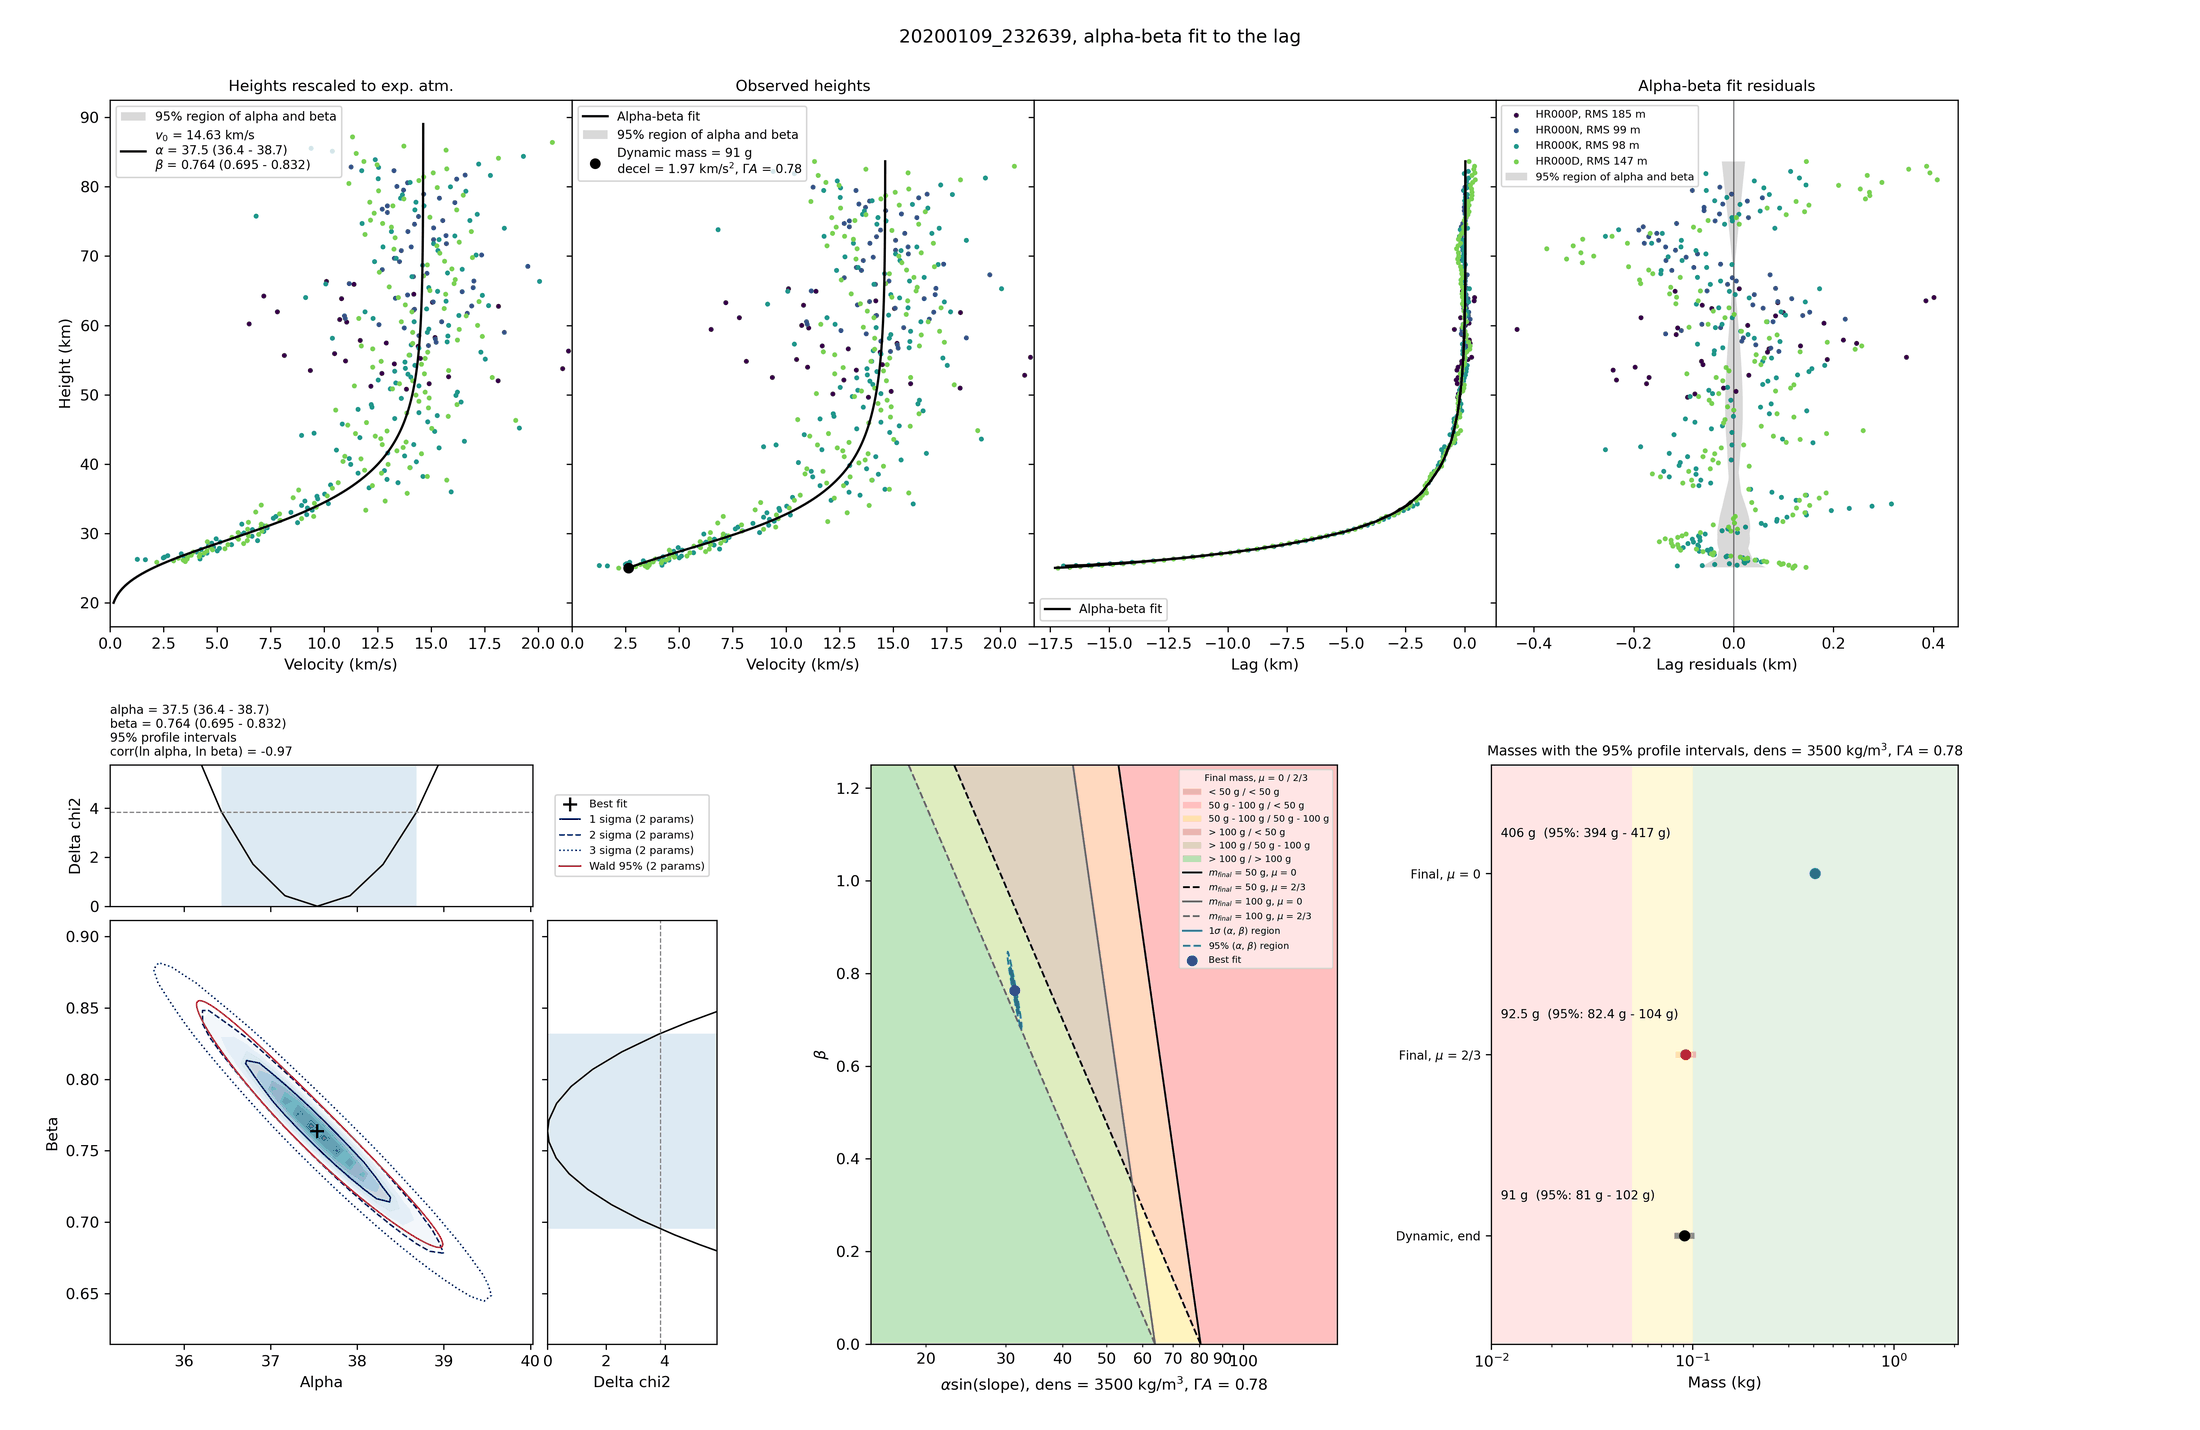
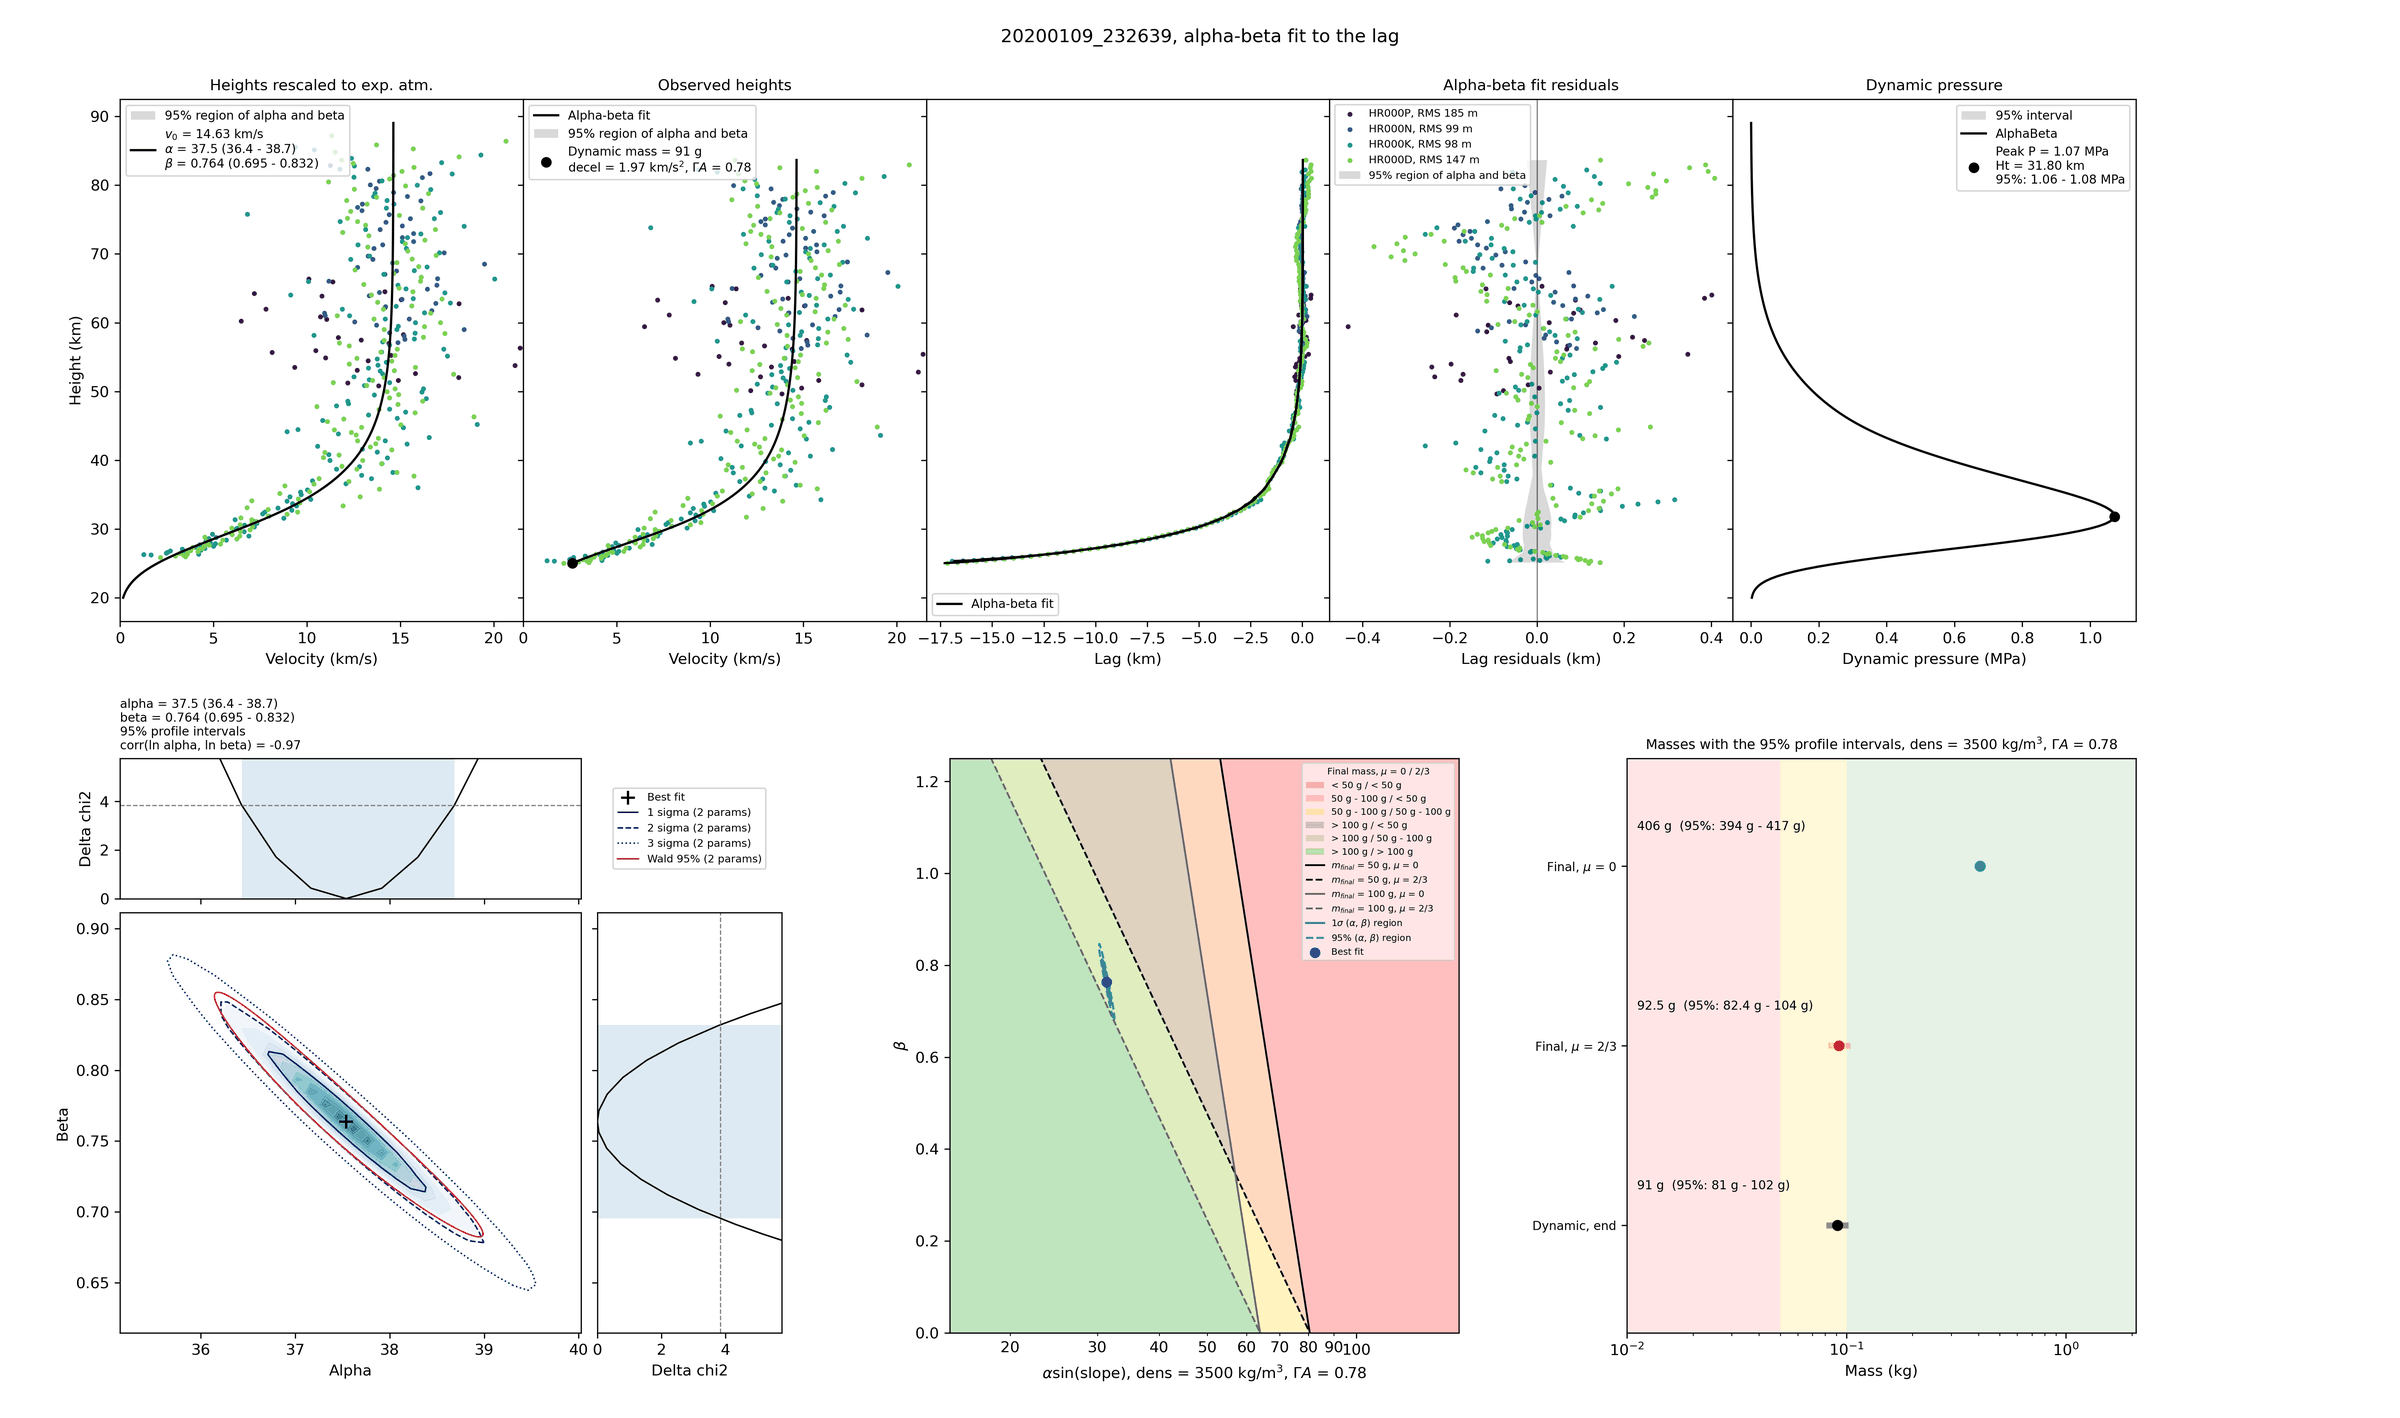
Add the dynamic pressure to the summary plot of AlphaBeta
The dynamic pressure along the path, with the band of the models within the 95% interval and the peak, is the
fifth panel of the top row of the summary plot, on the same height axis as the fit. The separate dynamic
pressure plot is still saved.

Claude-Session: https://claude.ai/code/session_017G5K4vHM8FDzUMWRbdfb43

diff --git a/wmpl/Utils/AlphaBeta.py b/wmpl/Utils/AlphaBeta.py
@@ -7488,76 +7488,6 @@ if __name__ == "__main__":
                 ncol=(1 if len(station_ids) <= 8 else 2))
 
 
-        ### Summary plot of the fit, the uncertainties, the mass diagram and the masses ###
-
-        fig_sum = plt.figure(figsize=(20, 13))
-        grid_sum = fig_sum.add_gridspec(2, 1, height_ratios=[1, 1.1], hspace=0.25, left=0.05, right=0.89, \
-            top=0.93, bottom=0.06)
-
-        # Plot the fit in the top row
-        grid_top = grid_sum[0].subgridspec(1, 4, wspace=0)
-        ax_sum_ab = fig_sum.add_subplot(grid_top[0])
-        sum_axes = [ax_sum_ab] + [fig_sum.add_subplot(grid_top[i], sharey=ax_sum_ab) for i in range(1, 4)]
-        _plotFit(*sum_axes, print_results=False)
-        for ax in sum_axes[1:]:
-            ax.tick_params(labelleft=False)
-
-        grid_bottom = grid_sum[1].subgridspec(1, 3, width_ratios=[1.3, 1, 1], wspace=0.3)
-
-        # Plot the uncertainties of alpha and beta
-        if cml_args.errors:
-            plotAlphaBetaLagProfile(lag_profile, alpha, beta, errors=fit_errors, fig=fig_sum, \
-                subplot_spec=grid_bottom[0])
-        else:
-            ax_note = fig_sum.add_subplot(grid_bottom[0])
-            ax_note.axis('off')
-            ax_note.text(0.5, 0.5, "Run with --errors for the uncertainties of alpha and beta", \
-                ha='center', va='center', transform=ax_note.transAxes)
-
-        # Plot the survival diagram in the space of the initial mass and beta
-        ax_mass_diagram = fig_sum.add_subplot(grid_bottom[1])
-        plotAlphaBetaMassDiagram(alpha, beta, slope, profile=(lag_profile if cml_args.errors else None), \
-            dens=cml_args.dens, shape_coeff=cml_args.ga, axes=ax_mass_diagram)
-        if little_deceleration:
-            ax_mass_diagram.text(0.5, 0.5, "Not constrained by the dynamics\n(velocity loss {:.1%})".format( \
-                velocity_loss), transform=ax_mass_diagram.transAxes, ha='center', va='center', fontsize=12, \
-                bbox=dict(facecolor='white', alpha=0.8, edgecolor='0.5'))
-
-        # Plot the masses with their 95% intervals
-        def _massEntry(label, mass, interval_values, color, no_upper_limit=False):
-            """ One mass of the plot of the masses, with its interval from the values of the models within
-                the 95% interval.
-            """
-
-            if not len(interval_values):
-                return (label, mass, None, None, color)
-
-            upper = np.inf if no_upper_limit else np.max(interval_values)
-
-            return (label, mass, np.min(interval_values), upper, color)
-
-        # Without a significant deceleration the final masses are ~0
-        if little_deceleration:
-            masses = [("Final, $\\mu$ = 0", 0.0, None, None, 'tab:blue'), \
-                ("Final, $\\mu$ = 2/3", 0.0, None, None, 'tab:orange'), \
-                ("Dynamic, end", 0.0, None, None, 'k')]
-            masses_note = "Velocity loss of only {:.1%} by the end:\nthe dynamics do not constrain the " \
-                "masses, and the\nfireball most likely ablated completely".format(velocity_loss)
-        else:
-            masses = [
-                _massEntry("Final, $\\mu$ = 0", m_final_mu0, interval_masses[0][:, 1], 'tab:blue'),
-                _massEntry("Final, $\\mu$ = 2/3", m_final_mu23, interval_masses[2/3][:, 1], 'tab:orange'),
-                _massEntry("Dynamic, end", dyn_mass, interval_dyn_masses, 'k', no_upper_limit=no_decel),
-                ]
-            masses_note = None
-        ax_masses = fig_sum.add_subplot(grid_bottom[2])
-        plotAlphaBetaMasses(masses, axes=ax_masses, title="Masses with the 95% profile intervals, " \
-            "dens = {:d} kg/m$^3$, $\\Gamma A$ = {:.2f}".format(int(cml_args.dens), cml_args.ga), \
-            note=masses_note)
-
-        fig_sum.suptitle("{:s}, alpha-beta fit to the lag".format(traj.file_name))
-
-        _finishPlot(fig_sum, "alpha_beta_summary")
 
 
 
@@ -7665,35 +7595,122 @@ if __name__ == "__main__":
         print("----------------------")
 
 
+        def _plotDynPressure(ax):
+            """ Plot the dynamic pressure of the alpha-beta model along the path, with the band of the models
+                within the 95% interval and the peak.
+
+            Arguments:
+                ax: [Axes] Axes to draw into.
+            """
+
+            if interval_pressures:
+                ax.fill_betweenx(ht_arr/1000, np.min(interval_pressures, axis=0)/1e6, \
+                    np.max(interval_pressures, axis=0)/1e6, color='k', alpha=0.15, lw=0, label="95% interval")
+            ax.plot(dyn_pressure/1e6, ht_arr/1000, color='k', label='AlphaBeta')
+
+            # Mark alpha-beta dyn pressure peak on the graph
+            peak_label = "Peak P = {:.2f} MPa\nHt = {:.2f} km".format(peak_dyn_pressure, peak_dyn_pressure_ht)
+            if len(interval_peaks):
+                peak_label += "\n95%: {:.2f} - {:.2f} MPa".format(np.min(interval_peaks[:, 0]), \
+                    np.max(interval_peaks[:, 0]))
+            ax.scatter(peak_dyn_pressure, peak_dyn_pressure_ht, c='k', label=peak_label)
+
+            # Plot the dynamic pressure of the lag smoothing and mark its peak
+            if cml_args.lagsmooth:
+                ax.plot(dyn_pressure_lag/1e6, ht_data/1000, color='r', label='Lag smoothing')
+                ax.scatter(peak_dyn_pressure_lag, peak_dyn_pressure_ht_lag, c='r', \
+                    label="Peak P = {:.2f} MPa\nHt = {:.2f} km".format(peak_dyn_pressure_lag, \
+                    peak_dyn_pressure_ht_lag))
+
+            ax.legend(fontsize=8)
+            ax.set_xlabel("Dynamic pressure (MPa)")
+
+
         # Plot dyn pressure, with the band of the models within the 95% interval
-        fig_dyn = plt.figure()
-        if interval_pressures:
-            plt.fill_betweenx(ht_arr/1000, np.min(interval_pressures, axis=0)/1e6, \
-                np.max(interval_pressures, axis=0)/1e6, color='k', alpha=0.15, lw=0, label="95% interval")
-        plt.plot(dyn_pressure/1e6, ht_arr/1000, color='k', label='AlphaBeta')
-
-        # Mark alpha-beta dyn pressure peak on the graph
-        peak_label = "Peak P = {:.2f} MPa\nHt = {:.2f} km".format(peak_dyn_pressure, peak_dyn_pressure_ht)
-        if len(interval_peaks):
-            peak_label += "\n95%: {:.2f} - {:.2f} MPa".format(np.min(interval_peaks[:, 0]), \
-                np.max(interval_peaks[:, 0]))
-        plt.scatter(peak_dyn_pressure, peak_dyn_pressure_ht, c='k', label=peak_label)
-
-        # Plot the dynamic pressure of the lag smoothing and mark its peak
-        if cml_args.lagsmooth:
-            plt.plot(dyn_pressure_lag/1e6, ht_data/1000, color='r', label='Lag smoothing')
-            plt.scatter(peak_dyn_pressure_lag, peak_dyn_pressure_ht_lag, c='r', \
-                label="Peak P = {:.2f} MPa\nHt = {:.2f} km".format(peak_dyn_pressure_lag, \
-                peak_dyn_pressure_ht_lag))
-
-
-        plt.legend()
-
-        plt.ylabel("Height (km)")
-        plt.xlabel("Dynamic pressure (MPa)")
-        plt.title("{:s}, alpha-beta dynamic pressure".format(traj.file_name), fontsize=10)
+        fig_dyn, ax_dyn = plt.subplots()
+        _plotDynPressure(ax_dyn)
+        ax_dyn.set_ylabel("Height (km)")
+        ax_dyn.set_title("{:s}, alpha-beta dynamic pressure".format(traj.file_name), fontsize=10)
 
         _finishPlot(fig_dyn, "alpha_beta_dyn_pressure")
+
+
+
+        ### Summary plot of the fit, the pressure, the uncertainties, the mass diagram and the masses ###
+
+        fig_sum = plt.figure(figsize=(22, 13))
+        grid_sum = fig_sum.add_gridspec(2, 1, height_ratios=[1, 1.1], hspace=0.25, left=0.05, right=0.89, \
+            top=0.93, bottom=0.06)
+
+        # Plot the fit and the dynamic pressure in the top row
+        grid_top = grid_sum[0].subgridspec(1, 5, wspace=0)
+        ax_sum_ab = fig_sum.add_subplot(grid_top[0])
+        sum_axes = [ax_sum_ab] + [fig_sum.add_subplot(grid_top[i], sharey=ax_sum_ab) for i in range(1, 5)]
+        _plotFit(*sum_axes[:4], print_results=False)
+        _plotDynPressure(sum_axes[4])
+        sum_axes[4].set_title("Dynamic pressure", fontsize=10)
+        for ax in sum_axes[1:]:
+            ax.tick_params(labelleft=False)
+
+        grid_bottom = grid_sum[1].subgridspec(1, 3, width_ratios=[1.3, 1, 1], wspace=0.3)
+
+        # Plot the uncertainties of alpha and beta
+        if cml_args.errors:
+            plotAlphaBetaLagProfile(lag_profile, alpha, beta, errors=fit_errors, fig=fig_sum, \
+                subplot_spec=grid_bottom[0])
+        else:
+            ax_note = fig_sum.add_subplot(grid_bottom[0])
+            ax_note.axis('off')
+            ax_note.text(0.5, 0.5, "Run with --errors for the uncertainties of alpha and beta", \
+                ha='center', va='center', transform=ax_note.transAxes)
+
+        # Plot the survival diagram in the space of the initial mass and beta
+        ax_mass_diagram = fig_sum.add_subplot(grid_bottom[1])
+        plotAlphaBetaMassDiagram(alpha, beta, slope, profile=(lag_profile if cml_args.errors else None), \
+            dens=cml_args.dens, shape_coeff=cml_args.ga, axes=ax_mass_diagram)
+        if little_deceleration:
+            ax_mass_diagram.text(0.5, 0.5, "Not constrained by the dynamics\n(velocity loss {:.1%})".format( \
+                velocity_loss), transform=ax_mass_diagram.transAxes, ha='center', va='center', fontsize=12, \
+                bbox=dict(facecolor='white', alpha=0.8, edgecolor='0.5'))
+
+        # Plot the masses with their 95% intervals
+        def _massEntry(label, mass, interval_values, color, no_upper_limit=False):
+            """ One mass of the plot of the masses, with its interval from the values of the models within
+                the 95% interval.
+            """
+
+            if not len(interval_values):
+                return (label, mass, None, None, color)
+
+            upper = np.inf if no_upper_limit else np.max(interval_values)
+
+            return (label, mass, np.min(interval_values), upper, color)
+
+        # Without a significant deceleration the final masses are ~0
+        if little_deceleration:
+            masses = [("Final, $\\mu$ = 0", 0.0, None, None, 'tab:blue'), \
+                ("Final, $\\mu$ = 2/3", 0.0, None, None, 'tab:orange'), \
+                ("Dynamic, end", 0.0, None, None, 'k')]
+            masses_note = "Velocity loss of only {:.1%} by the end:\nthe dynamics do not constrain the " \
+                "masses, and the\nfireball most likely ablated completely".format(velocity_loss)
+        else:
+            masses = [
+                _massEntry("Final, $\\mu$ = 0", m_final_mu0, interval_masses[0][:, 1], 'tab:blue'),
+                _massEntry("Final, $\\mu$ = 2/3", m_final_mu23, interval_masses[2/3][:, 1], 'tab:orange'),
+                _massEntry("Dynamic, end", dyn_mass, interval_dyn_masses, 'k', no_upper_limit=no_decel),
+                ]
+            masses_note = None
+        ax_masses = fig_sum.add_subplot(grid_bottom[2])
+        plotAlphaBetaMasses(masses, axes=ax_masses, title="Masses with the 95% profile intervals, " \
+            "dens = {:d} kg/m$^3$, $\\Gamma A$ = {:.2f}".format(int(cml_args.dens), cml_args.ga), \
+            note=masses_note)
+
+        fig_sum.suptitle("{:s}, alpha-beta fit to the lag".format(traj.file_name))
+
+        _finishPlot(fig_sum, "alpha_beta_summary")
+
+
+
 
 
         ### ###

diff --git a/wmpl/Docs/AlphaBeta.md b/wmpl/Docs/AlphaBeta.md
@@ -106,9 +106,9 @@ from that point and a note is printed.
 
 ## The summary plot and the final masses
 
-`_alpha_beta_summary.png` shows all results of a run in one figure: the fit with the bands of the 95% region on
-top, and below it the uncertainties of alpha and beta, the survival diagram with the final mass on straight
-lines, and the final and the dynamic masses with their 95% intervals.
+`_alpha_beta_summary.png` shows all results of a run in one figure: the fit with the bands of the 95% region and
+the dynamic pressure along the path on top, and below it the uncertainties of alpha and beta, the survival
+diagram with the final mass on straight lines, and the final and the dynamic masses with their 95% intervals.
 
 The final mass of the alpha-beta model, for a final velocity much smaller than the initial one, is
 
